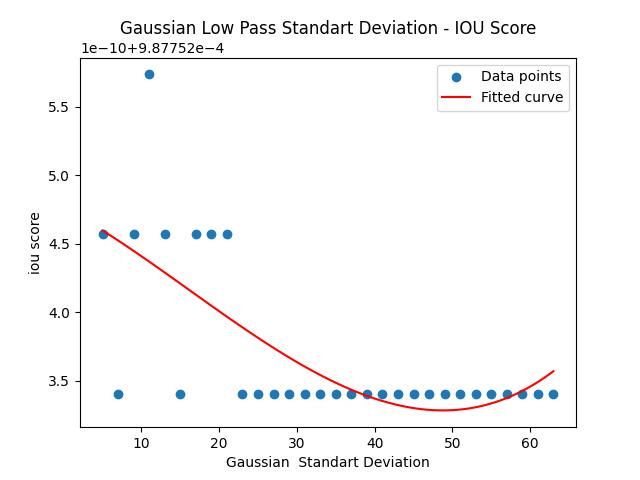
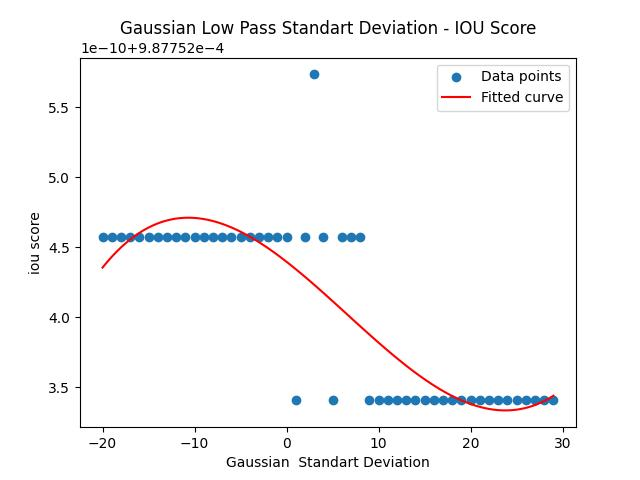
created 3 graphs

diff --git a/fastResults.py b/fastResults.py
@@ -38,7 +38,7 @@ input_image = np.expand_dims(input_image, axis=-1)  # Tek bir kanal ekleyerek (2
 
 gaus_kernel_x=5
 gaus_kernel_y=5
-gaus_kernel_std_dev=0
+gaus_kernel_std_dev=-20
 blurred_image = cv2.GaussianBlur(input_image, (gaus_kernel_x, gaus_kernel_y), gaus_kernel_std_dev)
 
 kernelSize=[]
@@ -46,17 +46,17 @@ iouScore=[]
 
 #cv2.imshow('Original Image', input_image)
 
-for i in range(30):
+for i in range(50):
     # use i*2 to keep kernel side length always odd number
     blurred_image = cv2.GaussianBlur(input_image, (gaus_kernel_x, gaus_kernel_y), gaus_kernel_std_dev+i)
-    print(gaus_kernel_x+i*2)
+    sharp_image = cv2.addWeighted(input_image, 1.5, blurred_image, -0.5, 0)
     #cv2.imshow(f'Blurred Image {i}', blurred_image)
     
     # kernel size data collected 
-    kernelSize.append(gaus_kernel_x+i*2)
+    kernelSize.append(gaus_kernel_std_dev+i)
 
     #prediction made
-    prediction_result = model.predict(np.expand_dims(blurred_image, axis=0))
+    prediction_result = model.predict(np.expand_dims(sharp_image, axis=0))
     #prediction tuned into value 
     side_res=prediction_result
     
@@ -68,7 +68,7 @@ for i in range(30):
 
 import graphmaker2d as gmaker
 
-gmaker.graph(kernelSize, iouScore ,"Gaussian Low Pass Standart Deviation - IOU Score" ,xname="Gaussian  Standart Deviation")
+gmaker.graph(kernelSize, iouScore ,"GLP and Laplacian Sharpened - IOU Score" ,xname="Gaussian  Standart Deviation")
 
 
 
